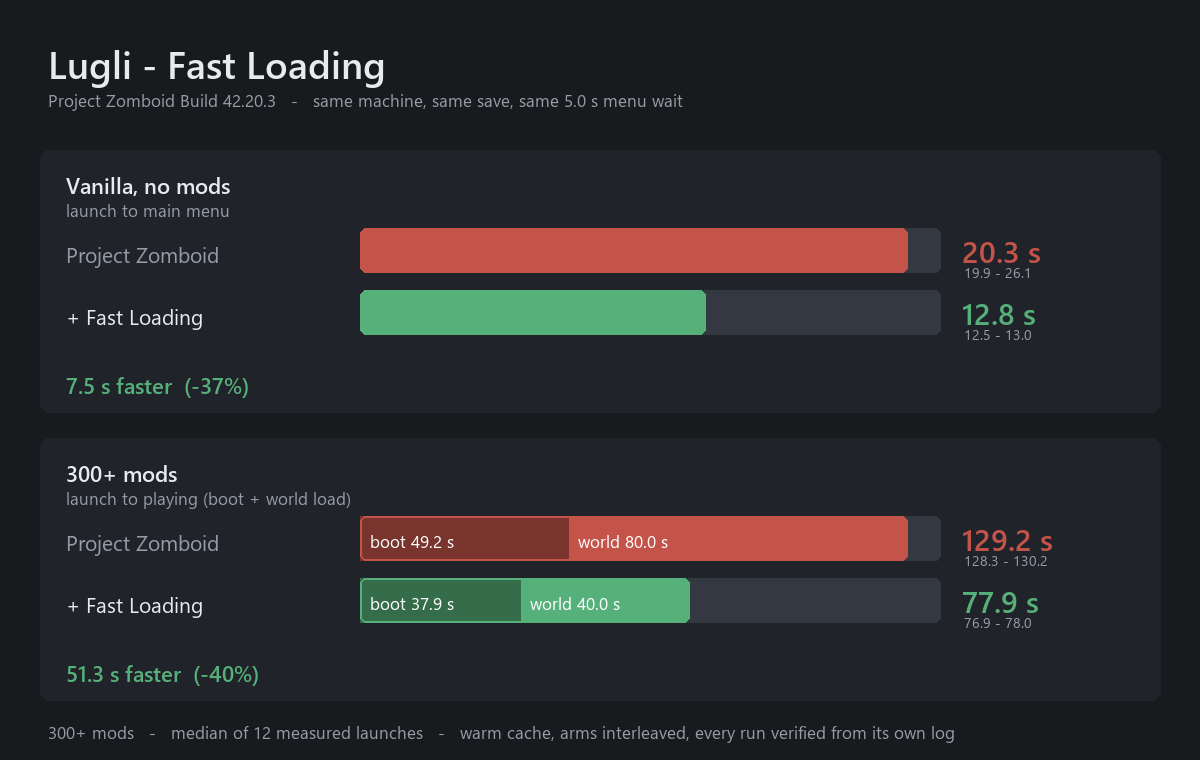
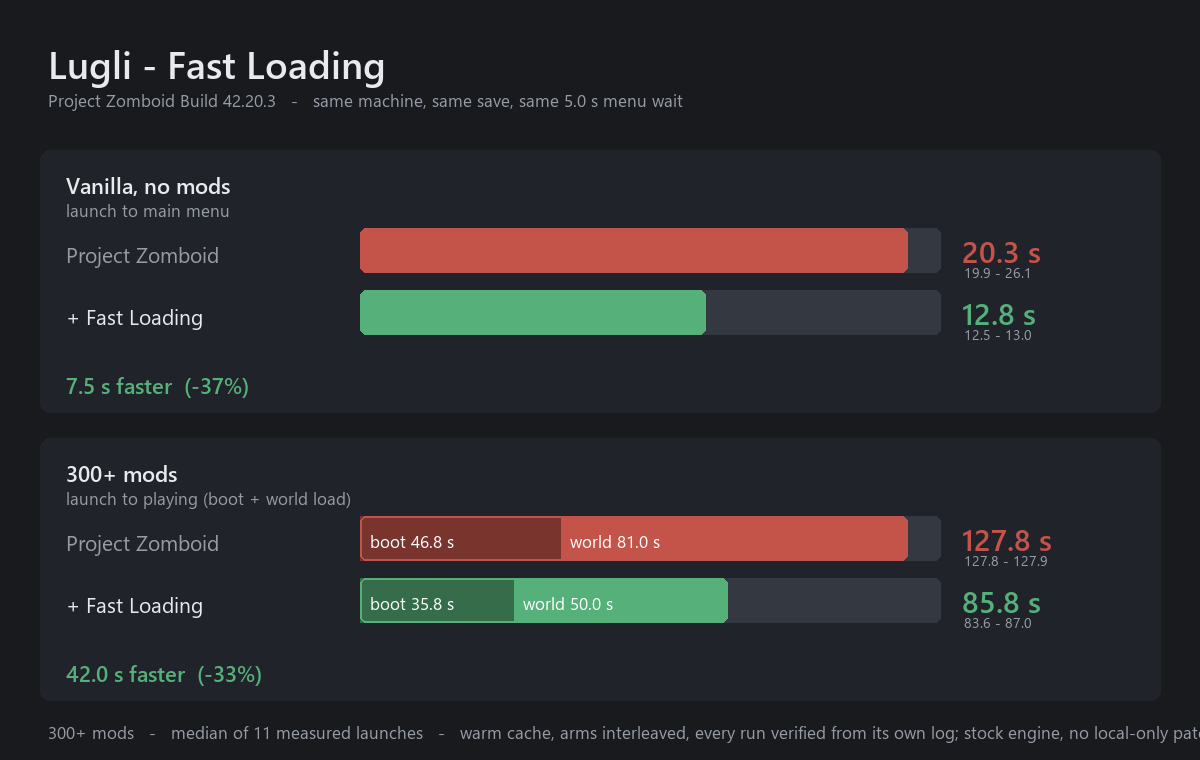
📝 docs(fastloading): re-measure the published numbers on a stock engine
The with-mod arm did not reproduce. Three interleaved pairs put
launch -> playing at 83.6-86.8 s against a published 77.9 s, while the
baseline matched (127.8-127.9 s vs 129.2 s), so the gap was in what
"with the mod" had been measured on, not in the comparison.

Cause: the recorded world load for that arm was 39-40 s, and today the
same arm measures 50-51 s on a stock engine. The loose asset-cap class
is not installed here, and a subscriber never gets it, so the stock
figure is the one that belongs on the listing.

  300+ mods, launch to main menu   46.8 s -> 35.1 s   -25 %
  300+ mods, launch to playing    127.8 s -> 85.5 s   -33 %

Vanilla is unchanged and was not re-run: that arm has no world load,
which is where the whole difference sits. Chart and race gif
regenerated from the same data.

diff --git a/Lugli_FastLoading/README.md b/Lugli_FastLoading/README.md
@@ -11,15 +11,12 @@ on every build and must match an unpatched run, or the build fails.
 | | without | with | delta |
 |---|---|---|---|
 | Vanilla, launch to main menu | 20.3 s | 12.8 s | **-37 %** |
-| 300+ mods, launch to main menu | 49.2 s | 37.9 s | **-23 %** |
-| 300+ mods, launch to playing | 129.2 s | 77.9 s | **-40 %** |
+| 300+ mods, launch to main menu | 46.8 s | 35.1 s | **-25 %** |
+| 300+ mods, launch to playing | 127.8 s | 85.5 s | **-33 %** |
 
-Build 42.20.3, same machine, same save, 5 s wait at the menu. 12 launches, arms interleaved,
-each run checked against its own log. Bands: 19.9-26.1 to 12.5-13.0, 48.3-49.9 to 37.2-38.0,
-and 128.3-130.2 to 76.9-78.0.
-
-Vanilla launch-to-playing is not listed because it is not measured: a mod-free profile cannot
-load a pinned world through the benchmark harness, so there is no honest number for that cell.
+Build 42.20.3, same machine, same save, 5 s wait at the menu, arms interleaved, every run checked
+against its own log, and a stock engine with no local-only patches. Bands: 19.9-26.1 to 12.5-13.0,
+46.8-46.9 to 33.6-36.0, and 127.8-127.9 to 83.6-86.8.
 
 [Steam Workshop](https://steamcommunity.com/sharedfiles/filedetails/?id=3787104045).
 Needs [ZombieBuddy](https://steamcommunity.com/sharedfiles/filedetails/?id=3619862853) for the
